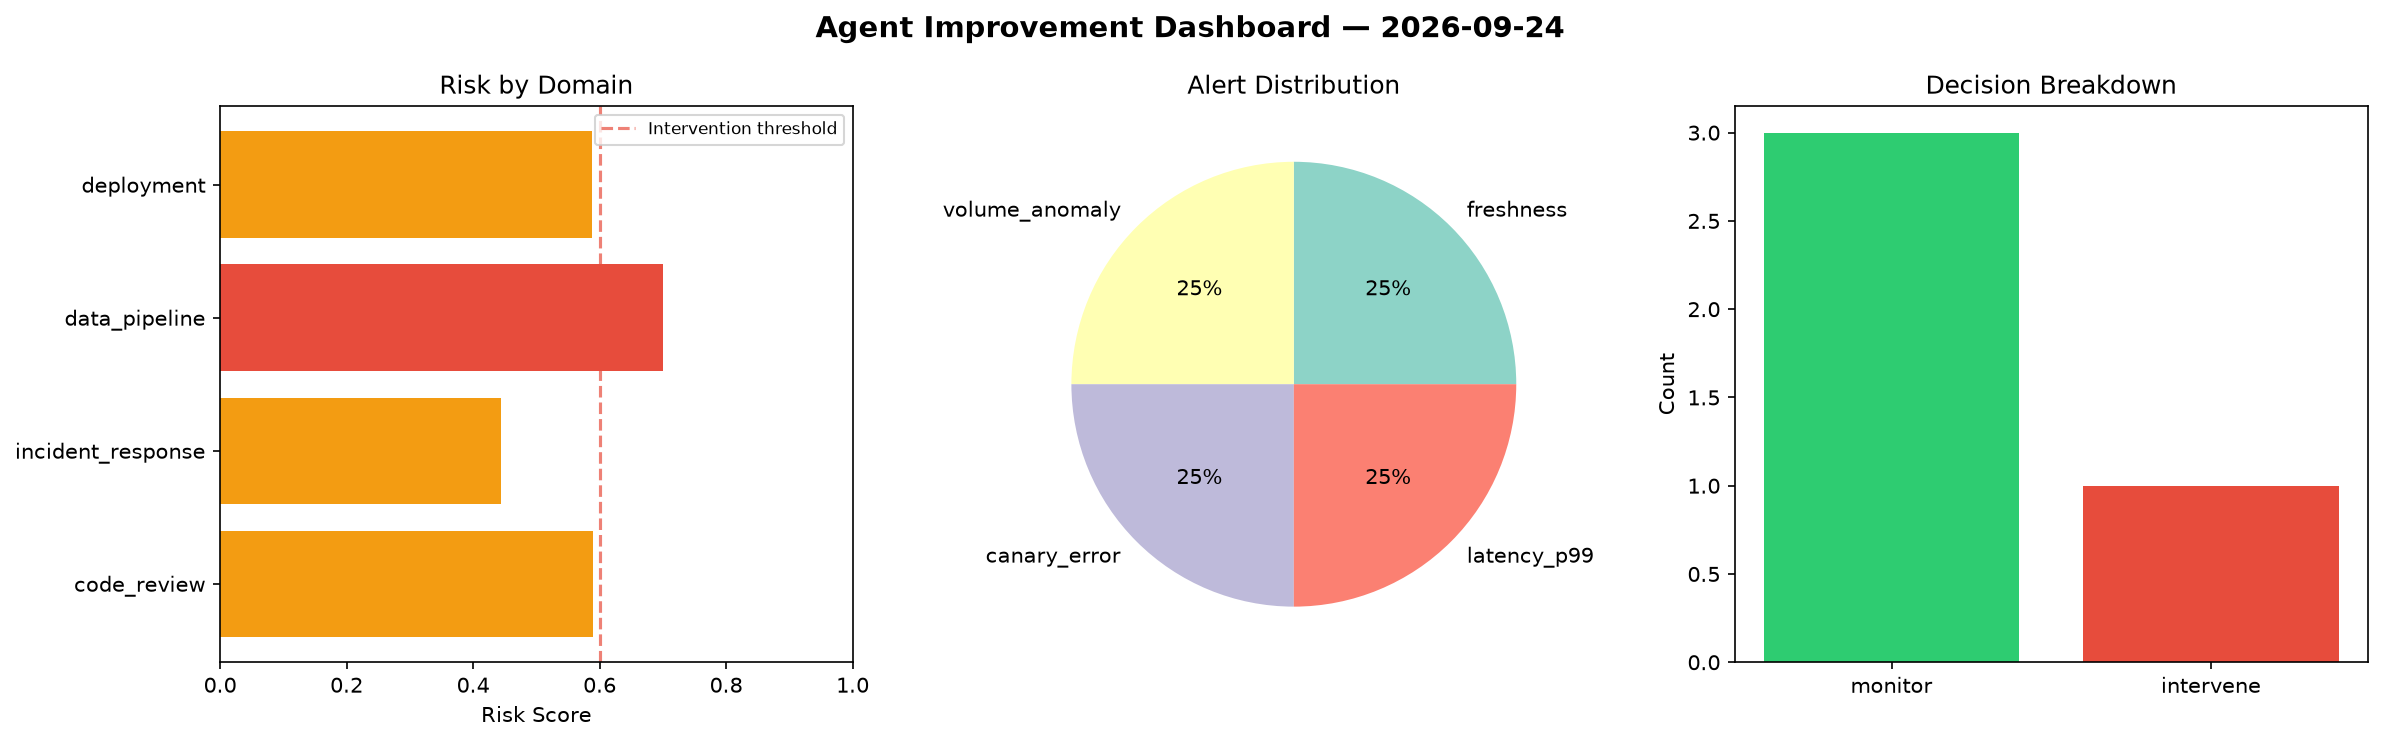
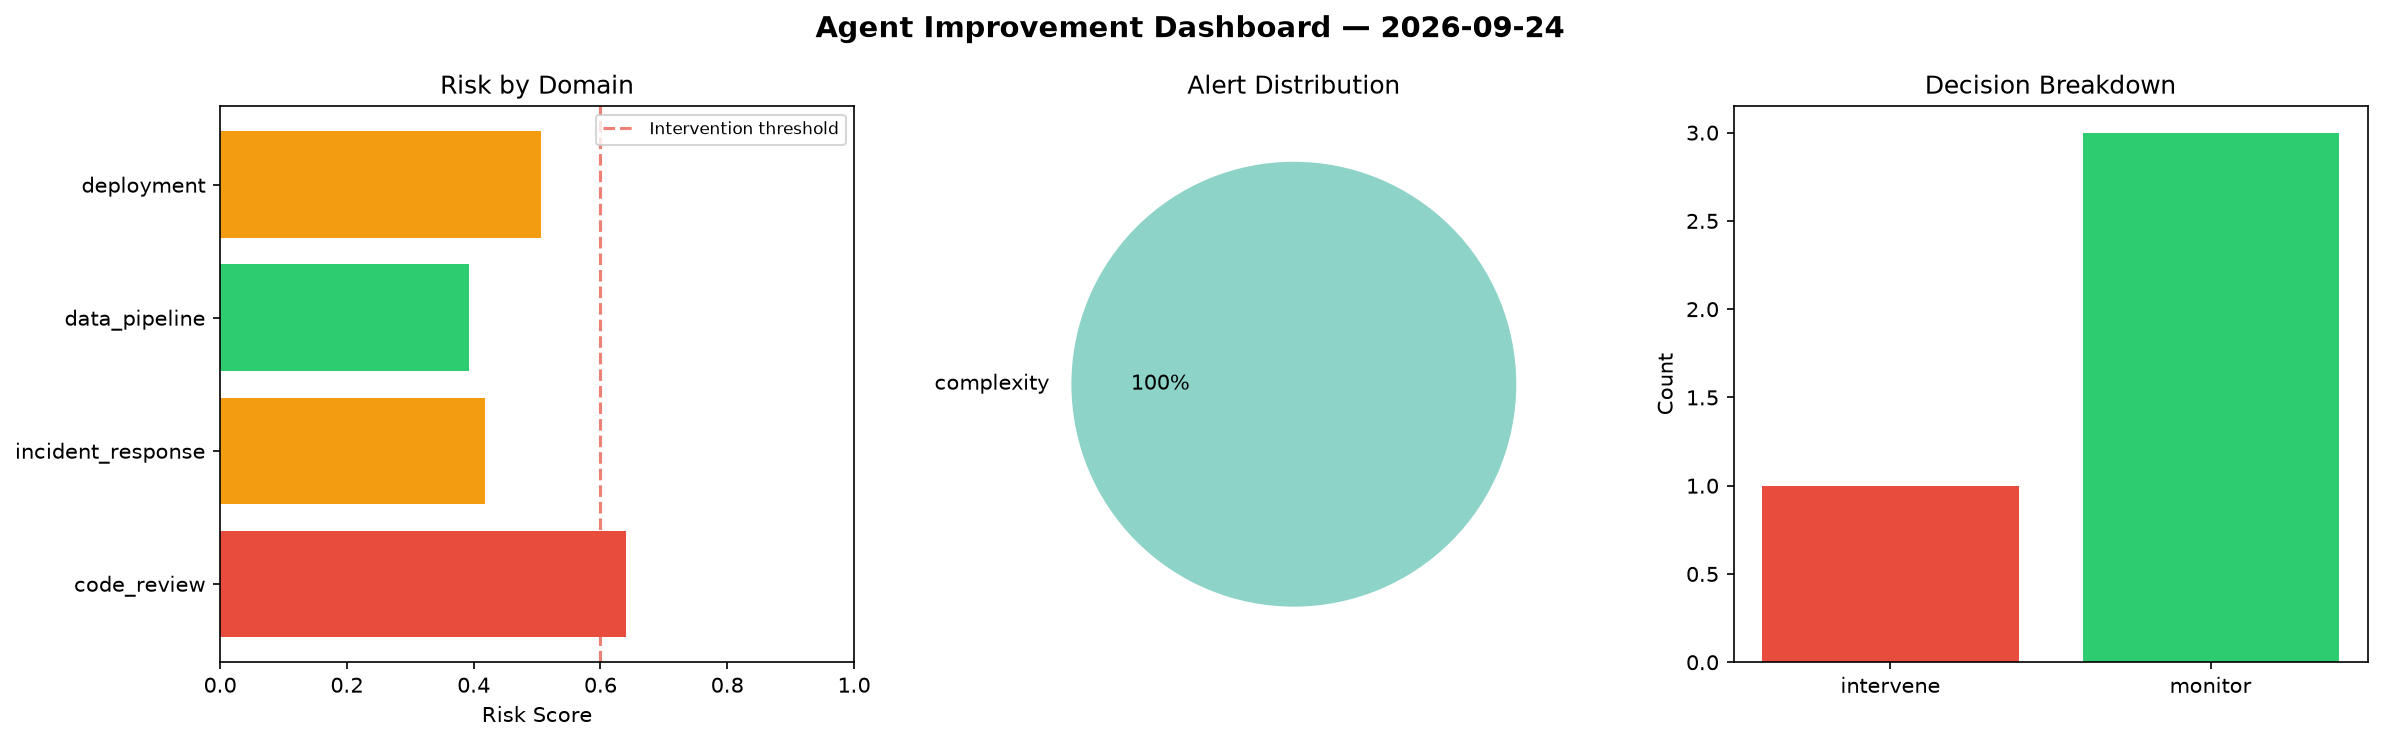
agent-improvement: daily cycle 2026-09-24T23:11

diff --git a/logs/2026-09-24.md b/logs/2026-09-24.md
@@ -1,6 +1,6 @@
 # Agent Improvement Report — 2026-09-24
 
-**Cycle ID:** `451c7ace` | **Avg Risk:** 0.5802 | **Interventions:** 1/4
+**Cycle ID:** `3fd76cab` | **Avg Risk:** 0.4892 | **Interventions:** 1/4
 
 ![Dashboard](2026-09-24_dashboard.png)
 
@@ -10,18 +10,18 @@
 
 | Domain | Risk Score | Decision | Alerts |
 |--------|-----------|----------|--------|
-| code_review | 0.5893 | monitor | none |
-| incident_response | 0.4436 | monitor | none |
-| data_pipeline | 0.7003 | intervene | freshness, volume_anomaly |
-| deployment | 0.5875 | monitor | canary_error, latency_p99 |
+| code_review | 0.6406 | intervene | complexity |
+| incident_response | 0.4174 | monitor | none |
+| data_pipeline | 0.3921 | monitor | none |
+| deployment | 0.5067 | monitor | none |
 
 ## Delta vs Yesterday
 
 | Domain | Today | Yesterday | Change |
 |--------|-------|-----------|--------|
-| code_review | 0.5893 | 0.1568 | 📈 275.8% |
-| incident_response | 0.4436 | 0.4961 | 📉 -10.6% |
-| data_pipeline | 0.7003 | 0.3574 | 📈 95.9% |
-| deployment | 0.5875 | 0.5467 | 📈 7.5% |
+| code_review | 0.6406 | 0.1568 | 📈 308.5% |
+| incident_response | 0.4174 | 0.4961 | 📉 -15.9% |
+| data_pipeline | 0.3921 | 0.3574 | 📈 9.7% |
+| deployment | 0.5067 | 0.5467 | 📉 -7.3% |
 
 **Refinement:** `{'adjustment': 'maintain', 'trend': 'improving', 'window': 4}`
